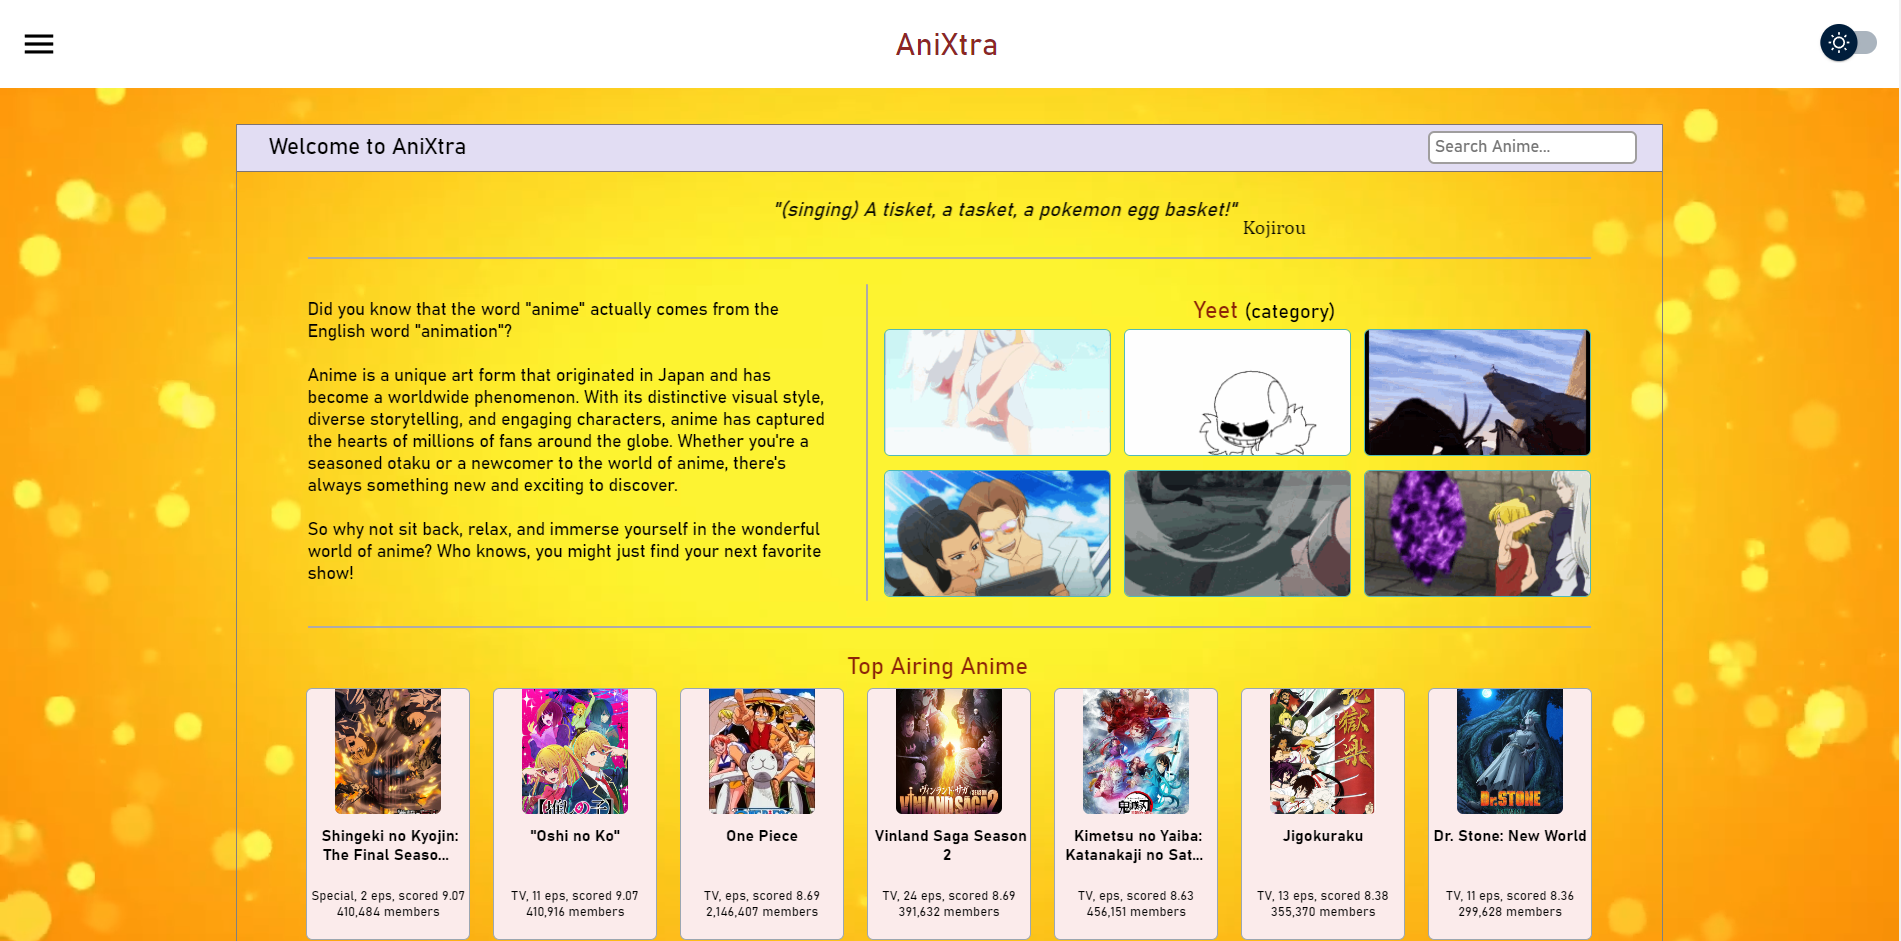
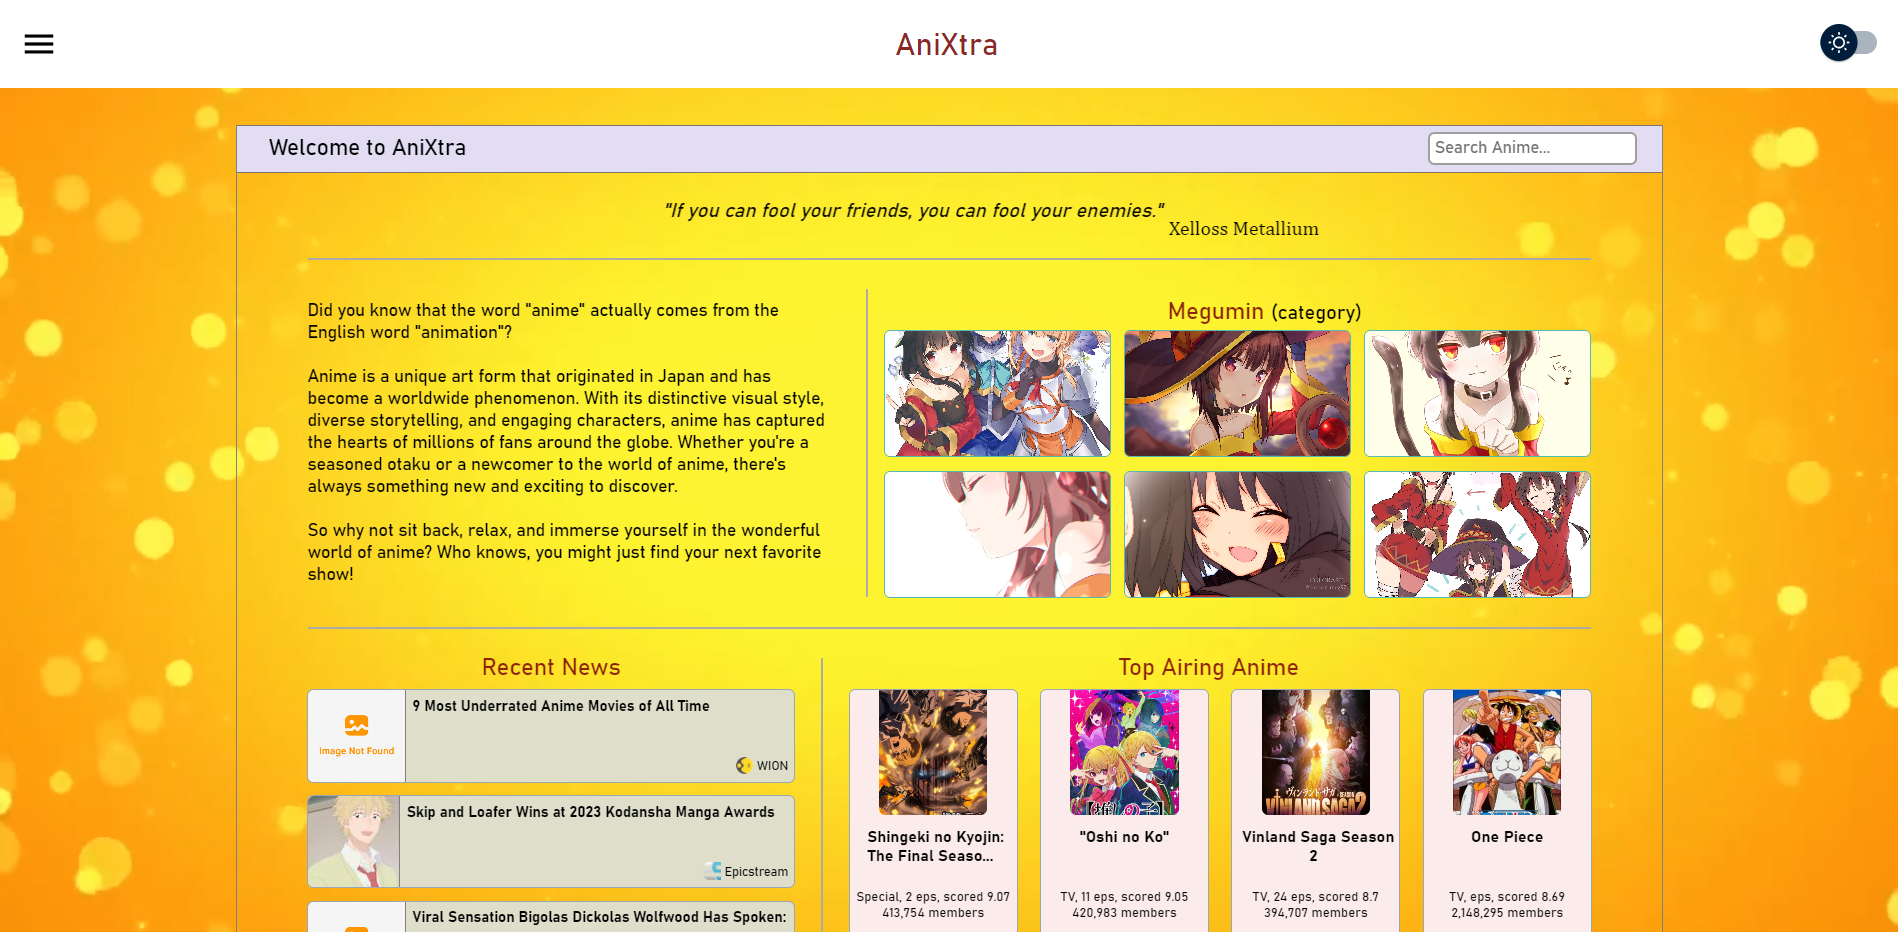
initial commit

diff --git a/src/components/Part-Bar/SideBarItem/SideBarItem.scss b/src/components/Part-Bar/SideBarItem/SideBarItem.scss
@@ -19,8 +19,22 @@
   display: none;
 
   .nav-text {
-    //height: 40px;
     padding: 5px 0;
+  }
+
+  @media (max-height: 730px) {
+    .nav-text {
+      height: 30px !important;
+
+      span {
+        font-size: 18px;
+      }
+    }
+  }
+  @media (max-height: 630px) {
+    .nav-text span {
+      font-size: 17px;
+    }
   }
 
   @media (max-width: 784px) {
@@ -42,6 +56,26 @@
     }
     span {
       font-size: 16px;
+    }
+  }
+}
+
+@media (max-height: 730px) {
+  .father {
+    height: 45px !important;
+
+    div {
+      font-size: 20px !important;
+    }
+  }
+}
+
+@media (max-height: 630px) {
+  .father {
+    height: 40px !important;
+
+    div {
+      font-size: 19px !important;
     }
   }
 }
@@ -77,15 +111,17 @@
 .father {
   div {
     height: 100%;
-    //padding: 0 30px;
 
     cursor: pointer;
-    //font-size: 18px;
 
     display: flex;
     align-items: center;
   }
-
+  @media (max-height: 730px) {
+    .father-icon{
+      font-size: 28px !important;
+    }
+  }
   @media (max-width: 784px) {
     .father-icon {
       font-size: 35px;
@@ -98,7 +134,6 @@
   }
 
   .father-icon {
-    //font-size: 28px;
     position: absolute;
     right: 20px;
   }
@@ -106,6 +141,26 @@
 
 .father:hover {
   background-color: #f4db4a;
+}
+
+@media (max-height: 730px) {
+  .nav-text {
+    height: 45px !important;
+
+    a {
+      font-size: 20px !important;
+    }
+  }
+}
+
+@media (max-height: 630px) {
+  .nav-text {
+    height: 40px !important;
+
+    a {
+      font-size: 19px !important;
+    }
+  }
 }
 
 @media (max-width: 784px) {
@@ -139,7 +194,6 @@
 }
 
 .nav-text {
-  //height: 50px;
   list-style: none;
 
   display: flex;
@@ -149,10 +203,7 @@
   a {
     width: 95%;
     height: 100%;
-    //padding: 0 30px;
-
     text-decoration: none;
-    //font-size: 18px;
 
     display: flex;
     align-items: center;
@@ -160,6 +211,18 @@
 
   a:hover {
     background-color: #f4db4a;
+  }
+}
+
+@media (max-height: 730px) {
+  .icons svg {
+    font-size: 24px !important;
+  }
+}
+
+@media (max-height: 630px) {
+  .icons svg {
+    font-size: 23px !important;
   }
 }
 

diff --git a/src/components/Part-Home/Home/Home.tsx b/src/components/Part-Home/Home/Home.tsx
@@ -41,8 +41,8 @@ export const Home: FC = () => {
             sortBy: 'date',
             setLang: 'en',
             safeSearch: 'strict',
-            count: 7,
-            offset: 0,
+            count: 5,
+            offset: 10,
         }));
     }, [dispatch]);
 
@@ -99,7 +99,7 @@ export const Home: FC = () => {
                             )}
                         </div>
                     </div>
-                    <hr style={{width: '66.7vw', border: '1px solid  #aeaaaa'}}/>
+                    <hr style={{width: '90%', border: '1px solid  #aeaaaa'}}/>
                     <div className={'image-info-section'}>
                         <div className={'left-side'}>
                             <p className={'fade-in'}>
@@ -135,7 +135,7 @@ export const Home: FC = () => {
                             </Masonry>
                         </div>
                     </div>
-                    <hr style={{width: '66.7vw', border: '1px solid  #aeaaaa'}}/>
+                    <hr style={{width: '90%', border: '1px solid  #aeaaaa'}}/>
                     <div className={'body-section'}>
                         {news.length > 0 && (
                             <>
@@ -167,7 +167,7 @@ export const Home: FC = () => {
                         </div>
                     </div>
 
-                    <hr style={{width: '66.7vw', border: '1px solid  #aeaaaa'}}/>
+                    <hr style={{width: '90%', border: '1px solid  #aeaaaa'}}/>
                     <div className={'body-section'}>
                         {quotes.length > 0 && (
                             <>
@@ -191,7 +191,7 @@ export const Home: FC = () => {
                                         dynamicClass={'most-popular'}/>
                         </div>
                     </div>
-                    <hr style={{width: '66.7vw', border: '1px solid  #aeaaaa'}}/>
+                    <hr style={{width: '90%', border: '1px solid  #aeaaaa'}}/>
                     <HomeReviews/>
                     <HomeRecs/>
                     <ToTop/>

diff --git a/src/components/Part-News/News/News.tsx b/src/components/Part-News/News/News.tsx
@@ -20,7 +20,7 @@ export const News: FC = () => {
             sortBy: 'date',
             setLang: 'en',
             safeSearch: 'strict',
-            count: 17,
+            count: 15,
             offset: offset,
         }))
     }, [offset]);
@@ -35,15 +35,15 @@ export const News: FC = () => {
     const uniqueNews = Array.from(new Set(news.map(article => article.name))).map(name => {
         return news.find(article => article.name === name);
     });
-
     return (
         loading ? <Loader height={100}/> :
             <InfiniteScroll
                 loader={''}
-                hasMore={offset < 90} dataLength={totalResults}
+                hasMore={offset < 100} dataLength={totalResults}
                 next={() => dispatch(newsActions.setOffSet(offset + 15))}>
-                <div className={'news-container'} style={{marginBottom: offset < 90 ? 15 : 20}}>
-                    {error.error ? (<div style={{height: '60vh', display: 'flex',flexDirection: 'column', justifyContent: 'center'}}>
+                <div className={'news-container'} style={{marginBottom: offset < 100 ? 15 : 20}}>
+                    {error.error.code > 0 ? (<div
+                        style={{height: '60vh', display: 'flex', flexDirection: 'column', justifyContent: 'center'}}>
                         <p>Status Code - {error.error.code}</p>
                         <p>{error.error.message}</p>
                     </div>) : (

diff --git a/src/components/Part-Bar/SideBar/SideBar.scss b/src/components/Part-Bar/SideBar/SideBar.scss
@@ -1,3 +1,9 @@
+@media (max-height: 750px) {
+  .nav-menu {
+
+  }
+}
+
 @media (min-width: 785px) {
   .nav-menu {
     width: 200px;
@@ -43,23 +49,6 @@
     align-items: center;
   }
 
-  @media (max-width: 784px) {
-    .github {
-      height: 60px;
-
-      svg {
-        font-size: 33px;
-      }
-
-      div {
-        padding: 0 50px;
-      }
-
-      span {
-        font-size: 23px;
-      }
-    }
-  }
   @media (min-width: 785px) {
     .github {
       height: 50px;
@@ -74,6 +63,36 @@
 
       span {
         font-size: 18px;
+      }
+    }
+  }
+  @media (max-height: 730px) {
+    .github {
+      height: 50px !important;
+
+      svg {
+        font-size: 30px !important;
+      }
+
+      span {
+        font-size: 21px !important;
+      }
+    }
+  }
+  @media (max-width: 784px) {
+    .github {
+      height: 60px;
+
+      svg {
+        font-size: 33px;
+      }
+
+      div {
+        padding: 0 50px;
+      }
+
+      span {
+        font-size: 23px;
       }
     }
   }

diff --git a/src/services/axios.service.ts b/src/services/axios.service.ts
@@ -1,6 +1,6 @@
 import axios, {AxiosResponse} from "axios";
 
-import {AnimeAPI_URL, ImageAPI_URL, NewsAPI_URL, QuoteAPI_URL} from "../configs";
+import {AnimeAPI_URL, ImageAPI_URL, NewsAPI_URL, QuoteAPI_URL, RapidAPI_News_URL} from "../configs";
 
 export type AxiosResp<T> = Promise<AxiosResponse<T>>
 
@@ -16,3 +16,16 @@ axiosService_NewsAPI.interceptors.request.use(config => {
     config.headers['Ocp-Apim-Subscription-Key'] = import.meta.env.VITE_NEWS_API_KEY;
     return config;
 });
+
+export const axiosService_RapidAPI_News = axios.create({baseURL: RapidAPI_News_URL});
+
+const rapidHeaders: any = {
+    'X-BingApis-SDK': 'true',
+    'X-RapidAPI-Key': import.meta.env.VITE_RAPID_API_KEY as string,
+    'X-RapidAPI-Host': import.meta.env.VITE_RAPID_API_HOST as string
+};
+
+axiosService_RapidAPI_News.interceptors.request.use(config => {
+    config.headers = rapidHeaders;
+    return config;
+})

diff --git a/src/services/news/news.service.ts b/src/services/news/news.service.ts
@@ -1,9 +1,9 @@
-import {AxiosResp, axiosService_NewsAPI} from "../axios.service";
+import {AxiosResp, axiosService_RapidAPI_News} from "../axios.service";
 import {INewsResponse} from "../../interfaces";
 import {urls} from "../../configs";
 
 export const newsService = {
-    getAll: (q: string, safeSearch: string, setLang: string, sortBy: string, count: number, offset: number): AxiosResp<INewsResponse> => axiosService_NewsAPI.get(urls.search, {
+    getAll: (q: string, safeSearch: string, setLang: string, sortBy: string, count: number, offset: number): AxiosResp<INewsResponse> => axiosService_RapidAPI_News.get(urls.search, {
         params: {
             q,
             safeSearch,

diff --git a/src/configs/urls/urls.ts b/src/configs/urls/urls.ts
@@ -1,5 +1,6 @@
 const AnimeAPI_URL = import.meta.env.VITE_ANIME_API_URL;
 const NewsAPI_URL = import.meta.env.VITE_NEWS_API_URL;
+const RapidAPI_News_URL = import.meta.env.VITE_RAPID_API_NEWS;
 const QuoteAPI_URL = import.meta.env.VITE_QUOTE_API_URL;
 const ImageAPI_URL = import.meta.env.VITE_IMAGE_API_URL;
 
@@ -20,4 +21,4 @@ const urls = {
     many: '/many/sfw', // many images
 }
 
-export {AnimeAPI_URL, NewsAPI_URL, QuoteAPI_URL, ImageAPI_URL, urls}
+export {AnimeAPI_URL, NewsAPI_URL, RapidAPI_News_URL, QuoteAPI_URL, ImageAPI_URL, urls}

diff --git a/src/components/Part-Home/Home/Home.scss b/src/components/Part-Home/Home/Home.scss
@@ -277,7 +277,6 @@ p {
         margin-left: 35px;
 
         .news {
-
           span {
             font-size: 12px;
           }
@@ -379,7 +378,7 @@ p {
 
         .news-child {
           width: 90%;
-          height: 73.2px;
+          height: 73px;
           margin: 5px 10px 5px 10px;
 
           background-color: #dedecb;

diff --git a/src/redux/slices/news/news.slice.ts b/src/redux/slices/news/news.slice.ts
@@ -19,7 +19,7 @@ interface IState {
 const initialState: IState = {
     totalResults: 0,
     news: [],
-    offset: 0,
+    offset: 10,
     loading: false,
     error: {error: {code: 0, message: ''}},
 }
